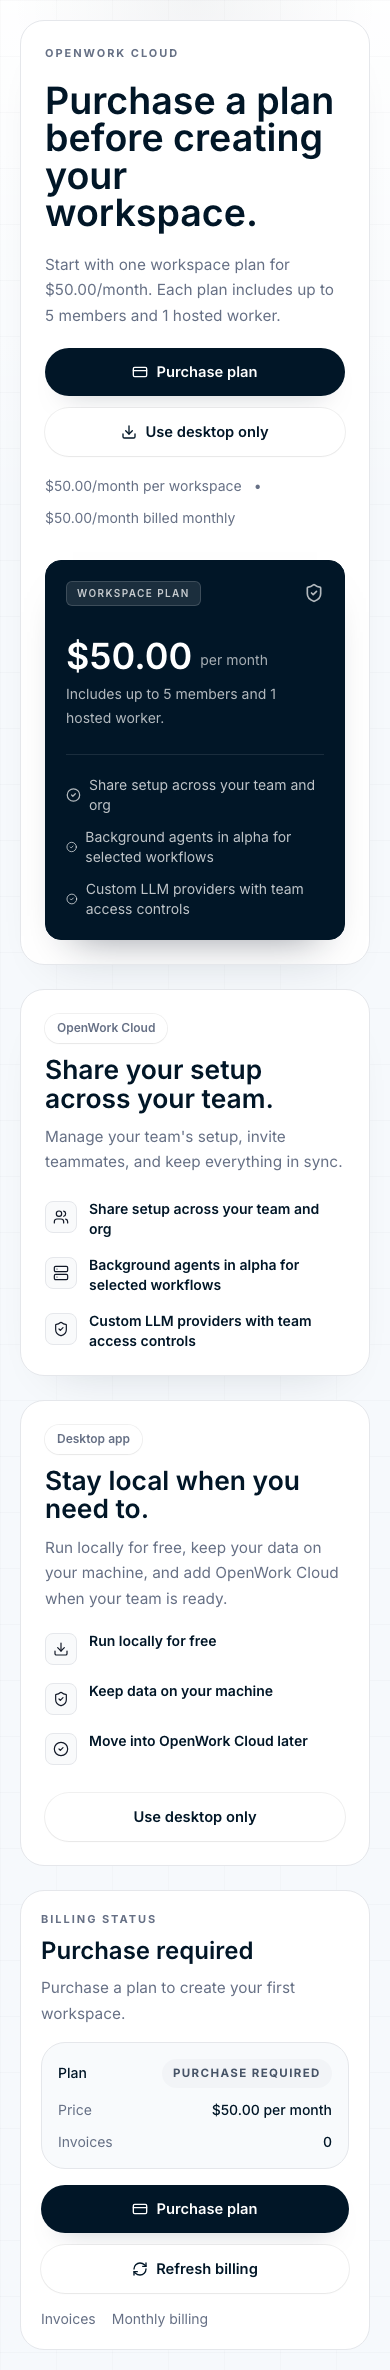
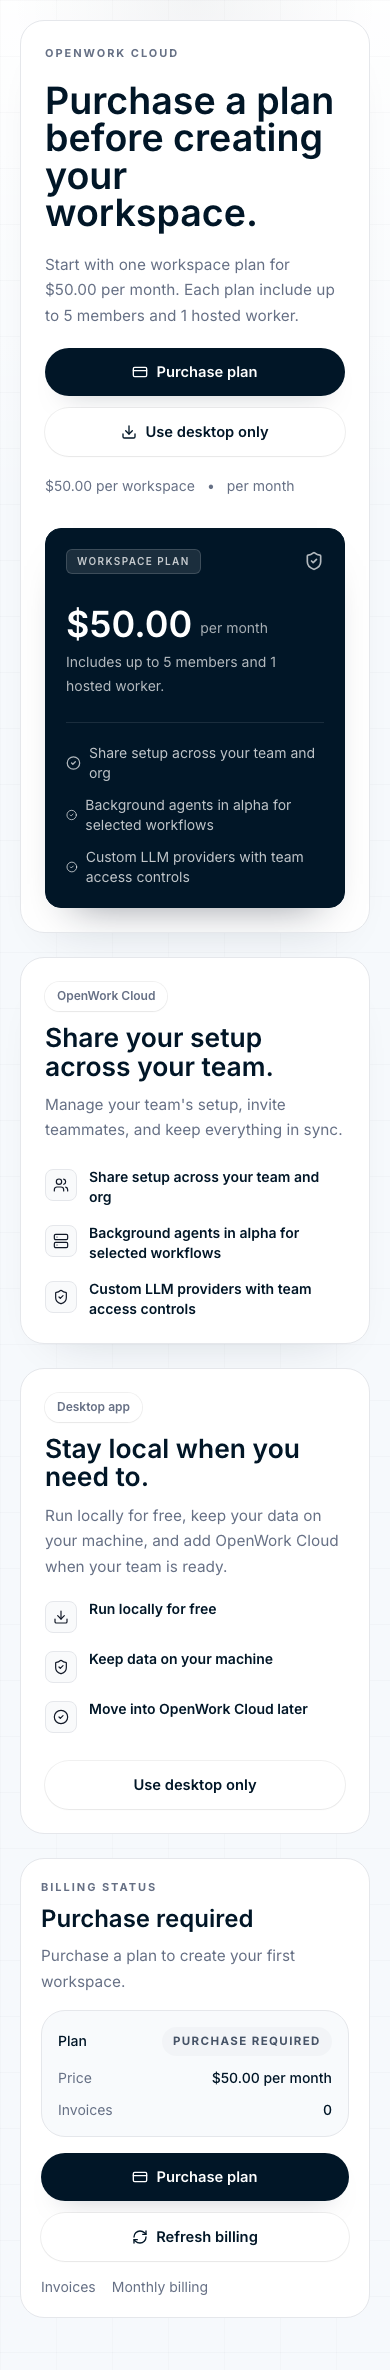
fix checkout price labels

Changed region(s): [[0.0923, 0.1873, 0.8923, 0.9679], [0.5846, 0.1249, 0.6154, 0.1561]]

diff --git a/ee/apps/den-web/app/(den)/_components/checkout-screen.tsx b/ee/apps/den-web/app/(den)/_components/checkout-screen.tsx
@@ -210,12 +210,7 @@ export function CheckoutScreen({
   const showLoading = resuming || (billingBusy && !billingSummary && !mockMode);
   const checkoutHref = effectiveCheckoutUrl ?? billingSummary?.checkoutUrl ?? (mockMode ? MOCK_CHECKOUT_URL : null);
   const planLabels = formatBillingPlanLabels(billingPrice);
-  const compactPlanAmountLabel =
-    billingPrice && billingPrice.amount !== null
-      ? `${planLabels.amount}/${billingPrice.recurringInterval ?? "billing cycle"}`
-      : planLabels.inline;
-  const billingScheduleLabel =
-    billingPrice?.recurringInterval === "month" ? "billed monthly" : `billed ${planLabels.cadence}`;
+  const planPriceLabel = planLabels.inline;
   const hasActivePlan = Boolean(billingSummary?.hasActivePlan);
   const subscriptionStatus = getBillingStatusLabel(billingSummary);
 
@@ -227,7 +222,7 @@ export function CheckoutScreen({
             <p className="den-eyebrow">OpenWork Cloud</p>
             <h1 className="den-title-xl max-w-[14ch]">Purchase a plan before creating your workspace.</h1>
             <p className="den-copy max-w-2xl">
-              Start with one workspace plan for {compactPlanAmountLabel}. Each plan {getWorkspacePlanInlineEntitlementCopy()}.
+              Start with one workspace plan for {planPriceLabel}. Each plan {getWorkspacePlanInlineEntitlementCopy()}.
             </p>
 
             <div className="flex flex-wrap gap-3">
@@ -235,7 +230,7 @@ export function CheckoutScreen({
                 <a href={checkoutHref} rel="noreferrer" className="den-button-primary w-full sm:w-auto">
                   <CreditCard className="h-4 w-4" aria-hidden="true" />
                   <span>Purchase plan</span>
-                  {planLabels.available ? <span className="hidden sm:inline">— {compactPlanAmountLabel}</span> : null}
+                  {planLabels.available ? <span className="hidden sm:inline">— {planPriceLabel}</span> : null}
                 </a>
               ) : (
                 <button
@@ -255,9 +250,13 @@ export function CheckoutScreen({
             </div>
 
             <div className="flex flex-wrap items-center gap-3 text-sm text-[var(--dls-text-secondary)]">
-              <span>{planLabels.available ? `${compactPlanAmountLabel} per workspace` : planLabels.inline}</span>
-              <span aria-hidden="true">•</span>
-              <span>{planLabels.available ? `${compactPlanAmountLabel} ${billingScheduleLabel}` : planLabels.inline}</span>
+              <span>{planLabels.available ? `${planLabels.amount} per workspace` : planLabels.inline}</span>
+              {planLabels.available ? (
+                <>
+                  <span aria-hidden="true">•</span>
+                  <span>{planLabels.cadence}</span>
+                </>
+              ) : null}
               <span className="hidden sm:inline" aria-hidden="true">•</span>
               <span className="hidden sm:inline">{user?.email ?? "Signed in"}</span>
             </div>

diff --git a/ee/apps/den-web/app/(den)/checkout/page.tsx b/ee/apps/den-web/app/(den)/checkout/page.tsx
@@ -1,6 +1,9 @@
 import { headers } from "next/headers";
 import { CheckoutScreen } from "../_components/checkout-screen";
 
+// Host is part of the local billing mock guard, so this page must stay per-request.
+export const dynamic = "force-dynamic";
+
 export default async function CheckoutPage({
   searchParams,
 }: {
